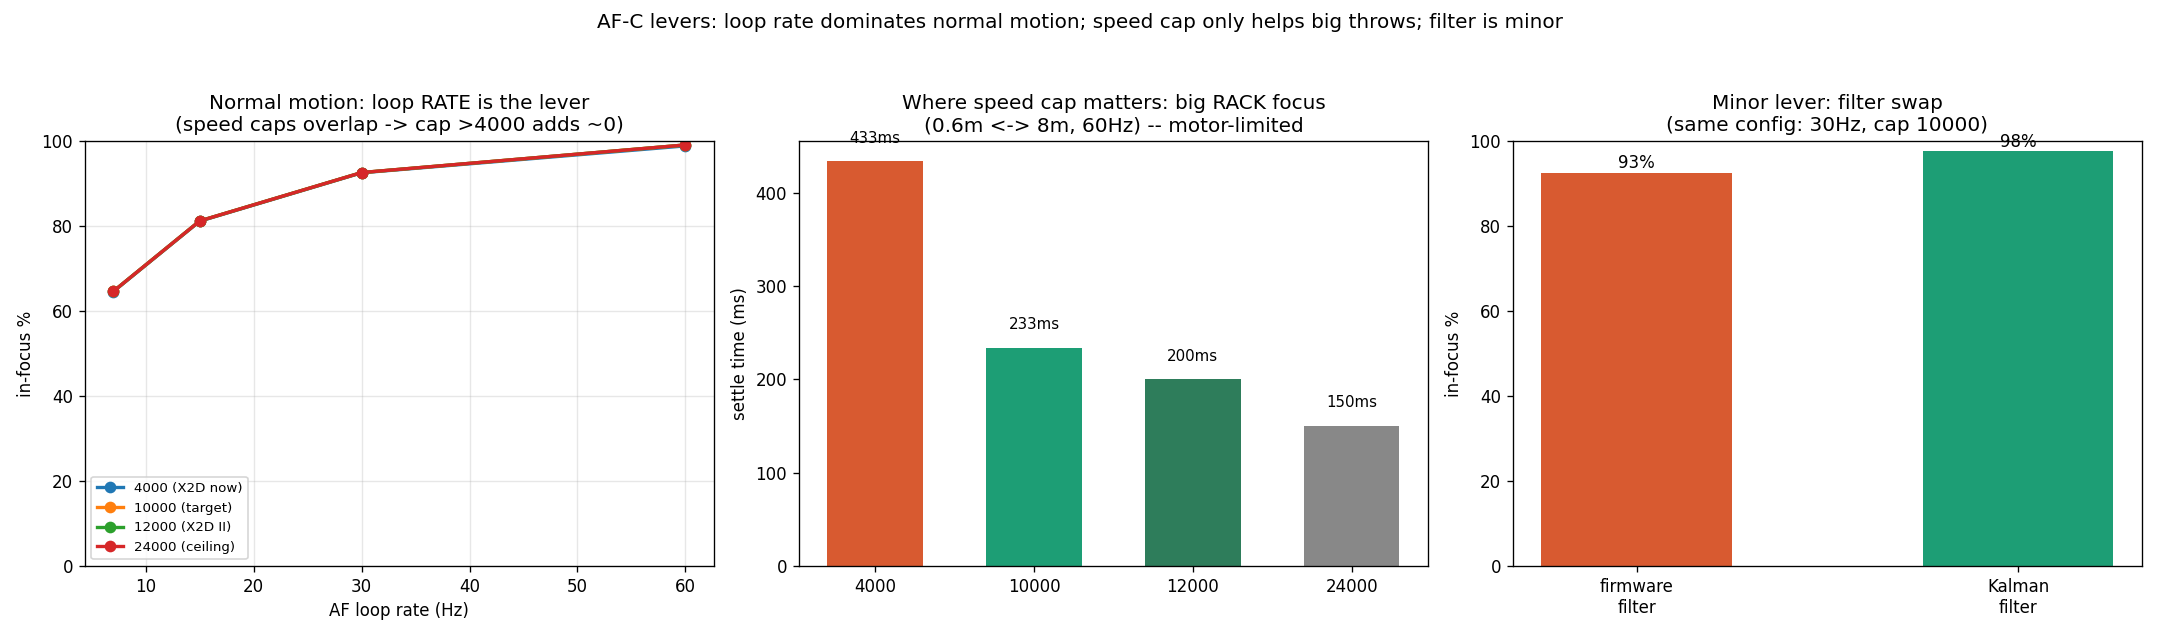
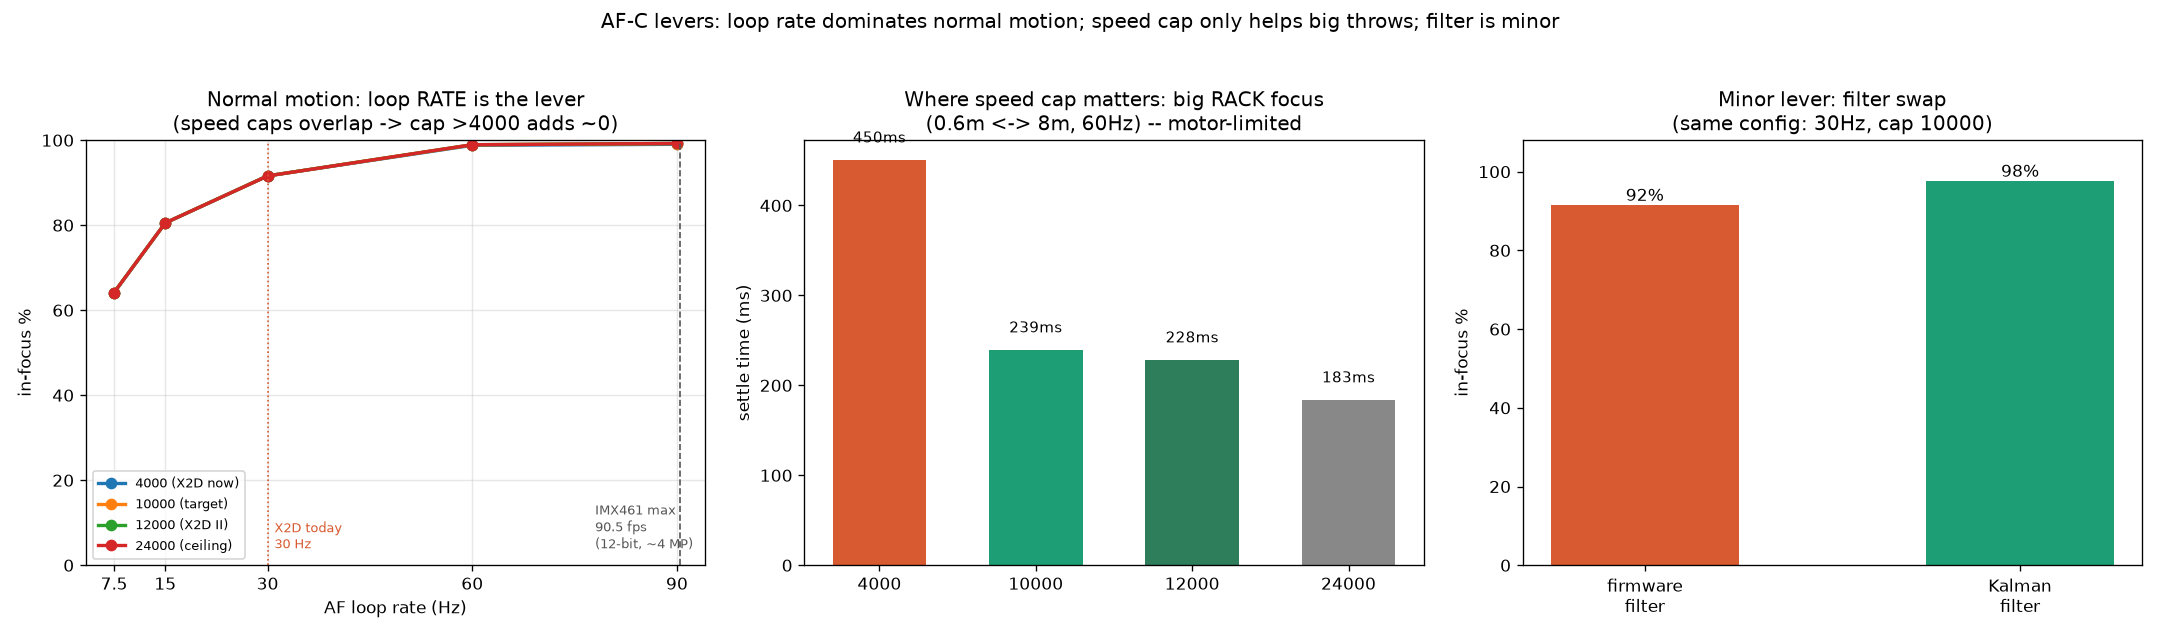
Add 90 Hz (IMX461 readout ceiling) to the loop-rate sweep
The IMX461's fastest 12-bit readout mode at a usable resolution is
90.5 fps (Sony flyer, readout mode 12, 3884 x 970). Sweep 7.5/15/30/60/90 Hz
on a 180 Hz simulation clock so every rate lands on whole ticks, and
mark X2D's 30 Hz and the sensor ceiling on the plot.

90 Hz adds +0.3 over 60 Hz for normal motion. 60 Hz already reaches the
ceiling; the big step is 30 -> 60 Hz (+7). README numbers updated for the
finer clock.

Claude-Session: https://claude.ai/code/session_01L8CqeknP2VpyW2e7CZ124F

diff --git a/scripts/run_big_levers.py b/scripts/run_big_levers.py
@@ -11,6 +11,12 @@ SYSTEM config -- AF loop RATE and lens SPEED CAP. Both are firmware/register
 knobs (the algorithms already exist), so these are MINOR adjustments to the
 built-in that give LARGE gains. Filter choice (firmware vs Kalman) is a minor
 lever by comparison. Fixed policy = firmware; sweep rate x speed.
+
+Loop rates swept: 7.5 / 15 / 30 / 60 / 90 Hz. 30 Hz = X2D today; 90 Hz = the
+fastest IMX461 12-bit readout mode at a usable resolution (Sony flyer: readout
+mode 12, 3884 x 970, 90.5 fps), i.e. the sensor-side ceiling for the AF loop.
+The simulation clock runs at 180 Hz (LCM of all rates) so every rate lands on
+a whole number of ticks; the motor is integrated at that clock.
 Run: python scripts/run_big_levers.py -> out/big_levers.png
 """
 import os, sys
@@ -25,13 +31,13 @@ from pdaf_sim.policy import Decision, TemporalPolicy
 from pdaf_sim.latency import LatencyBuffer
 
 F,FN,DI,PX=55.,2.5,1500.,3.76; PPM=signed_disparity_px(1.,F,FN,DI,PX)
-FPS=60; N=1800; LO,HI=0.,7.; LAT=3; DB=0.10
+TICK=180; N=30*TICK; LO,HI=0.,7.; LAT=3; DB=0.10   # 180 Hz sim clock, 30 s
 STEPS_PER_MM=300.; ACCEL_TIME_S=0.02; TAU=0.03   # XCD 55V magnetic voice-coil (servo)
 @dataclass
 class Motor:                               # critically damped + vel cap + accel limit, no backlash
     pos:float; vmax:float; accel:float; vel:float=0.
     def command(self,target):
-        dt=1./FPS; err=target-self.pos
+        dt=1./TICK; err=target-self.pos
         vd=float(np.clip(err/TAU,-self.vmax,self.vmax))
         dv=float(np.clip(vd-self.vel,-self.accel*dt,self.accel*dt)); self.vel+=dv
         self.pos=float(np.clip(self.pos+self.vel*dt,LO,HI)); return self.pos
@@ -39,7 +45,7 @@ def make_motor(pos,speed):
     v=speed/STEPS_PER_MM; return Motor(float(pos),v,v/ACCEL_TIME_S)
 def fmm(m): return float(np.clip(F*F/(max(m*1000,F+1)-F),LO,HI))
 def subj(k):
-    s=k/FPS
+    s=k/TICK
     if s<18: return 4.0-3.0*(s/18)       # walk-in 4m->1m
     if s<22: return 1.0
     if s<23: return 3.0                  # step far
@@ -60,7 +66,7 @@ def sim(policy_kind, update_every, cap, seed=1):
     rng=np.random.default_rng(seed); nrng=np.random.default_rng(seed+7)
     sharp=high_contrast(rng); lb=LatencyBuffer(LAT)
     lens=fmm(subj(0)); last=lens; infoc=0; motor=make_motor(lens,cap)
-    if policy_kind=="kalman": pol=TemporalPolicy(tau_sweep=.05,process_var=.5*15/FPS,meas_var_base=1.,predict_frames=LAT,sweep_step=.3,scan_lo=LO,scan_hi=HI)
+    if policy_kind=="kalman": pol=TemporalPolicy(tau_sweep=.05,process_var=.5*15/60,meas_var_base=1.,predict_frames=LAT,sweep_step=.3,scan_lo=LO,scan_hi=HI)
     else: pol=Firmware()
     for k in range(N):
         tgt=fmm(subj(k))
@@ -77,7 +83,7 @@ def sim(policy_kind, update_every, cap, seed=1):
     return 100*infoc/N
 
 os.makedirs("out",exist_ok=True)
-rates=[1,2,4,8]; rate_hz=[FPS//r for r in rates]
+rate_hz=[90,60,30,15,7.5]; rates=[int(TICK//h) for h in rate_hz]   # update every N ticks
 caps=[4000,10000,12000,24000]
 cap_lab={4000:"4000 (X2D now)",10000:"10000 (target)",12000:"12000 (X2D II)",24000:"24000 (ceiling)"}
 grid=np.zeros((len(caps),len(rates)))
@@ -85,29 +91,31 @@ for i,cap in enumerate(caps):
     for j,r in enumerate(rates):
         grid[i,j]=sim("firmware",r,cap)
 # filter comparison at a fixed mid config (rate=2, cap=10000)
-fw=sim("firmware",2,10000); kf=sim("kalman",2,10000)
+fw=sim("firmware",TICK//30,10000); kf=sim("kalman",TICK//30,10000)
 
 # where speed cap DOES matter: time to settle a big rack focus (0.6m <-> 8m),
 # same policy + 60Hz loop; motor-limited, so higher cap = faster settle.
 def rack_settle(cap):
     pol=Firmware(); motor=make_motor(fmm(8.0),cap); lens=fmm(8.0); tgt=fmm(0.6)
     lb=LatencyBuffer(LAT); nrng=np.random.default_rng(3); sharp=high_contrast(np.random.default_rng(3))
-    for k in range(240):                    # up to 4 s @60Hz
-        if k%1==0:
+    for k in range(4*TICK):                 # up to 4 s, 60 Hz loop
+        if k%(TICK//60)==0:
             L,R=render_lr(sharp,lens-tgt,F,FN,DI,PX,noise_sigma=0.01,rng=nrng)
             d,c=estimate_disparity_multi_zone(L,R,max_disp_px=48,n_zones=14)
             arr=lb.push_pop((d/PPM,c,lens))
             if arr is not None: last=pol.s(arr[0],arr[1],arr[2])
             else: last=lens
         lens=motor.command(last)
-        if abs(lens-tgt)<DB: return k/FPS*1000.0   # ms to settle
+        if abs(lens-tgt)<DB: return k/TICK*1000.0  # ms to settle
     return float("nan")
 rack=[rack_settle(c) for c in caps]
 
 fig,ax=plt.subplots(1,3,figsize=(18,5.3))
 for i,cap in enumerate(caps):
     ax[0].plot(rate_hz, grid[i], marker="o", lw=2, label=cap_lab[cap])
-ax[0].set_xlabel("AF loop rate (Hz)"); ax[0].set_ylabel("in-focus %")
+ax[0].axvline(30,color="#D85A30",ls=":",lw=1); ax[0].text(31,4,"X2D today\n30 Hz",fontsize=8,color="#D85A30")
+ax[0].axvline(90.5,color="#555",ls="--",lw=1); ax[0].text(78,4,"IMX461 max\n90.5 fps\n(12-bit, ~4 MP)",fontsize=8,color="#555")
+ax[0].set_xlabel("AF loop rate (Hz)"); ax[0].set_ylabel("in-focus %"); ax[0].set_xticks(rate_hz); ax[0].set_xticklabels([f"{h:g}" for h in rate_hz])
 ax[0].set_title("Normal motion: loop RATE is the lever\n(speed caps overlap -> cap >4000 adds ~0)")
 ax[0].legend(fontsize=8); ax[0].set_ylim(0,100); ax[0].grid(alpha=0.3)
 ax[1].bar([cap_lab[c].split()[0] for c in caps], rack, color=["#D85A30","#1D9E75","#2E7D5B","#888"], width=0.6)
@@ -116,12 +124,12 @@ for b,v in zip(ax[1].patches,rack):
     ax[1].text(b.get_x()+b.get_width()/2, (v if v==v else 0)+20, f"{v:.0f}ms" if v==v else "n/a", ha="center", fontsize=9)
 ax[2].bar(["firmware\nfilter","Kalman\nfilter"],[fw,kf],color=["#D85A30","#1D9E75"],width=0.5)
 ax[2].set_ylabel("in-focus %"); ax[2].set_title("Minor lever: filter swap\n(same config: 30Hz, cap 10000)")
-ax[2].set_ylim(0,100)
+ax[2].set_ylim(0,108)
 for b,v in zip(ax[2].patches,[fw,kf]): ax[2].text(b.get_x()+b.get_width()/2,v+1,f"{v:.0f}%",ha="center",fontsize=10)
 fig.suptitle("AF-C levers: loop rate dominates normal motion; speed cap only helps big throws; filter is minor",fontsize=12)
 fig.tight_layout(rect=[0,0,1,.95]); fig.savefig("out/big_levers.png",dpi=120)
 print("rack-focus settle (0.6m<->8m) ms by cap:", "  ".join(f"{cap_lab[c].split()[0]}={r:.0f}ms" for c,r in zip(caps,rack)))
-print("in-focus% grid (rows=speed cap 4000/10000/12000/24000, cols=rate every 1/2/4/8f):")
+print("in-focus% grid (rows=speed cap 4000/10000/12000/24000, cols=loop rate", "/".join(f"{h:g}" for h in rate_hz), "Hz):")
 for i,cap in enumerate(caps): print(f"  cap{cap:>6}: "+"  ".join(f"{grid[i,j]:5.1f}" for j in range(len(rates))))
 print(f"\nfilter swap @ (30Hz, cap10000):  firmware={fw:.1f}%   Kalman={kf:.1f}%  (delta {kf-fw:+.1f})")
 print(f"config swap (slow->fast): {grid[0,-1]:.1f}% -> {grid[-1,0]:.1f}%  (delta {grid[-1,0]-grid[0,-1]:+.1f})")

diff --git a/README.md b/README.md
@@ -120,11 +120,21 @@ rate × lens speed cap, with a *servo-controlled magnetic voice-coil* lens model
 (critically damped, velocity-capped, acceleration-limited, no backlash — an
 XCD 55V-style linear motor). Speed caps are modelled at the real values:
 4000 steps/s (X2D today), 10000 (proposed), 12000 (X2D II), 24000 (silicon
-ceiling). For *normal* subject motion the loop rate dominates (≈7.5 Hz → 60 Hz:
-65% → 99%) and the four speed caps essentially overlap — a faster motor adds
-almost nothing once it already outruns the subject. Speed only pays off on a
-*big rack focus* (0.6 m ↔ 8 m): settle time 4000 = 433 ms → 10000 = 233 ms →
-12000 = 200 ms → 24000 = 150 ms. The temporal filter is a minor lever (≈+5):
+ceiling). For *normal* subject motion the loop rate dominates (7.5 → 15 → 30
+→ 60 Hz: 64% → 81% → 92% → 99%) and the four speed caps essentially overlap — a
+faster motor adds almost nothing once it already outruns the subject. Speed only
+pays off on a *big rack focus* (0.6 m ↔ 8 m): settle time 4000 = 450 ms →
+10000 = 239 ms → 12000 = 228 ms → 24000 = 183 ms. The temporal filter is a minor
+lever (+6 at 30 Hz).
+
+The sweep now also runs a **90 Hz** point: the sensor-side ceiling. The IMX461's
+fastest 12-bit readout mode at a usable resolution is 90.5 fps (Sony flyer,
+readout mode 12, 3884 × 970, about 4 MP). 120 Hz, as in the GFX100 II's Boost
+mode, is a newer sensor; the IMX461-generation GFX100S boosts to 85.7 fps,
+consistent with that ceiling. 90 Hz adds only +0.3 over 60 Hz here: for normal
+motion, **60 Hz already reaches the ceiling**, and the big step is X2D's
+30 Hz → 60 Hz (+7). (The simulation clock moved to 180 Hz so all rates land on
+whole ticks, which shifts the earlier numbers by a few ms / points.)
 
 ![AF loop rate vs speed cap vs filter](out/big_levers.png)
 
@@ -269,8 +279,9 @@ so subject tracking costs nothing elsewhere. Rain frames alone: 73% → 78%
 
 Extended AF-C algorithm studies (simulation-only — see `DISCLAIMER.md`):
 
-- `scripts/run_big_levers.py` — **AF loop RATE × lens SPEED CAP sweep** with a
-  servo magnetic voice-coil motor, speed caps at 4000/10000/12000/24000 steps/s.
+- `scripts/run_big_levers.py` — **AF loop RATE × lens SPEED CAP sweep** (7.5–90 Hz,
+  90 Hz = IMX461 readout ceiling) with a servo magnetic voice-coil motor, speed
+  caps at 4000/10000/12000/24000 steps/s.
   Loop rate dominates normal motion; speed cap only cuts big rack-focus settle
   time; the temporal filter is minor. Config is the big lever, not the algorithm.
 - `scripts/run_realism_sweep.py` — pipeline **latency** + loop-rate vs a
